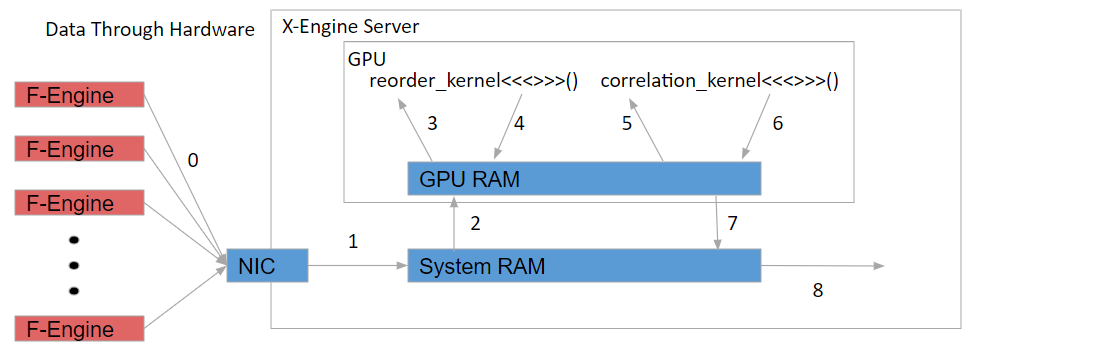
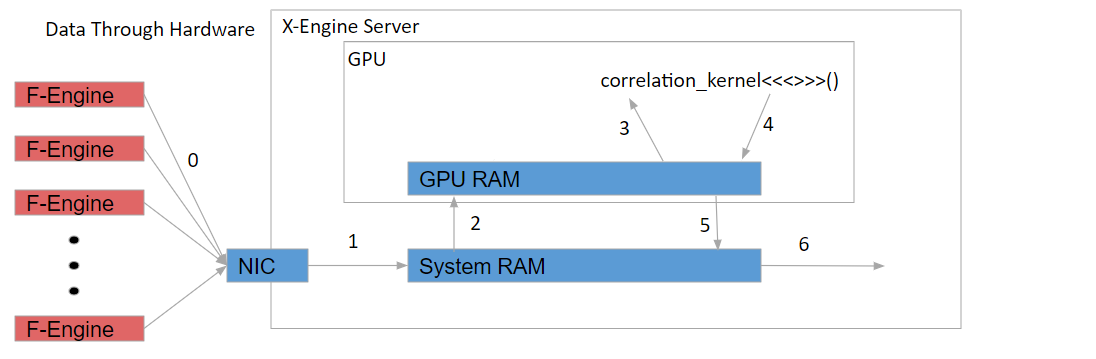
Further removal of pre-correlation from docs
Did surgery on a couple of diagrams, but left one as it would be
difficult to edit without the original source.

diff --git a/doc/xbgpu.theory.rst b/doc/xbgpu.theory.rst
@@ -7,7 +7,7 @@ Signal Flow
 The general flow of data through the system is shown in the the image below:
 
 .. figure:: images/concept.png
-  :width: 1087px
+  :width: 887px
 
   XBGPU Concept
 
@@ -37,11 +37,9 @@ The numbers in the above image correspond to the following actions:
   1. Assemble heaps into a chunk in system RAM.
   2. Transfer chunk to GPU memory.
   3. and
-  4. Launch a GPU kernel to reorder a chunk and transfer reordered data back to GPU memory.
-  5. and
-  6. Correlate reordered data and transfer baselines to GPU memory.
-  7. Transfer baselines from GPU memory to host memory.
-  8. Transfer baselines from host memory to the NIC and onto the network.
+  4. Correlate reordered data and transfer baselines to GPU memory.
+  5. Transfer baselines from GPU memory to host memory.
+  6. Transfer baselines from host memory to the NIC and onto the network.
 
 Synchronization and Coordination
 ~~~~~~~~~~~~~~~~~~~~~~~~~~~~~~~~
@@ -85,7 +83,7 @@ command queues:
 The numbers in the image above correspond to the following actions:
 
   1. Copy chunk to GPU memory from host
-  2. Reorder Chunk
+  2. Ignore - diagram is out of date
   3. Correlate chunk
   4. Transfer heap to host memory from GPU
 
